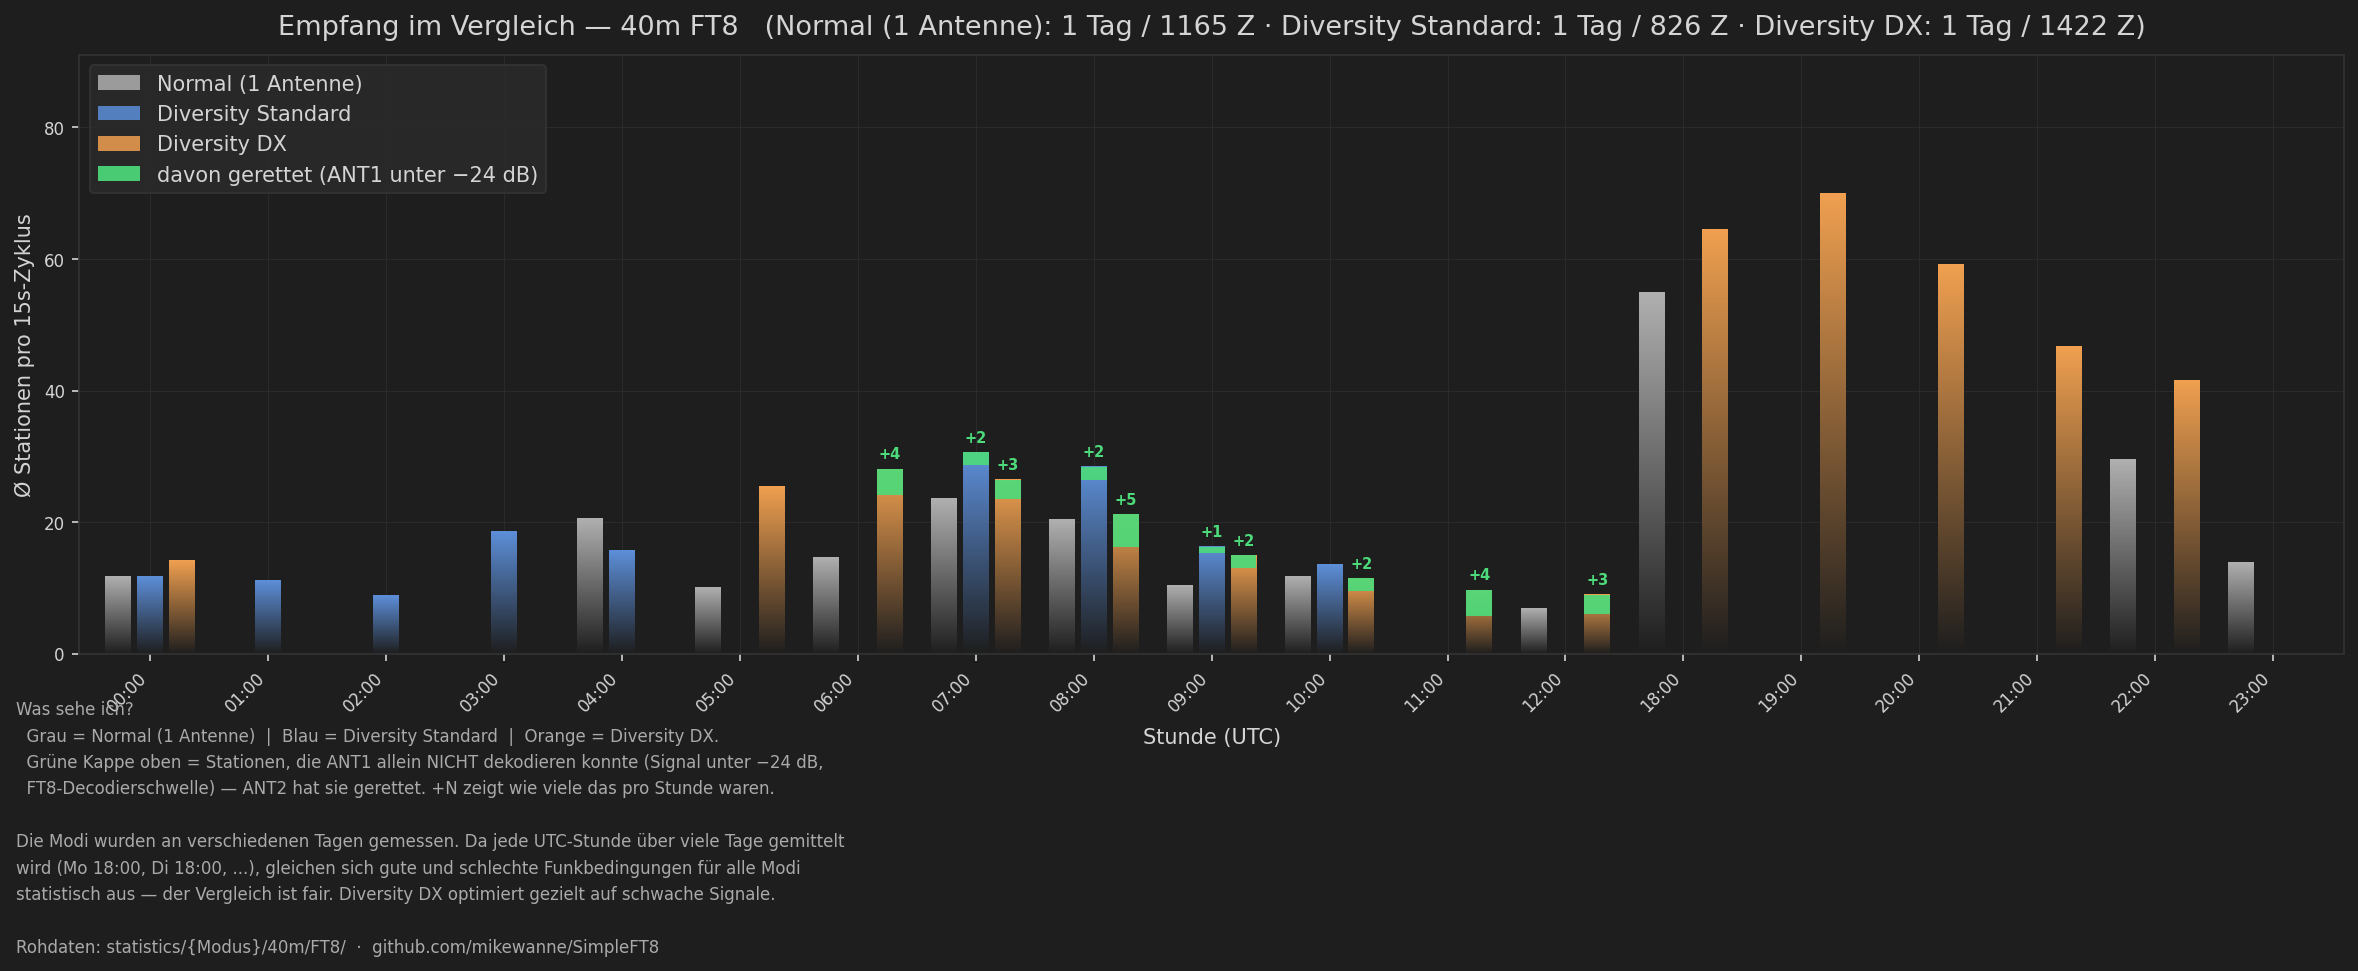
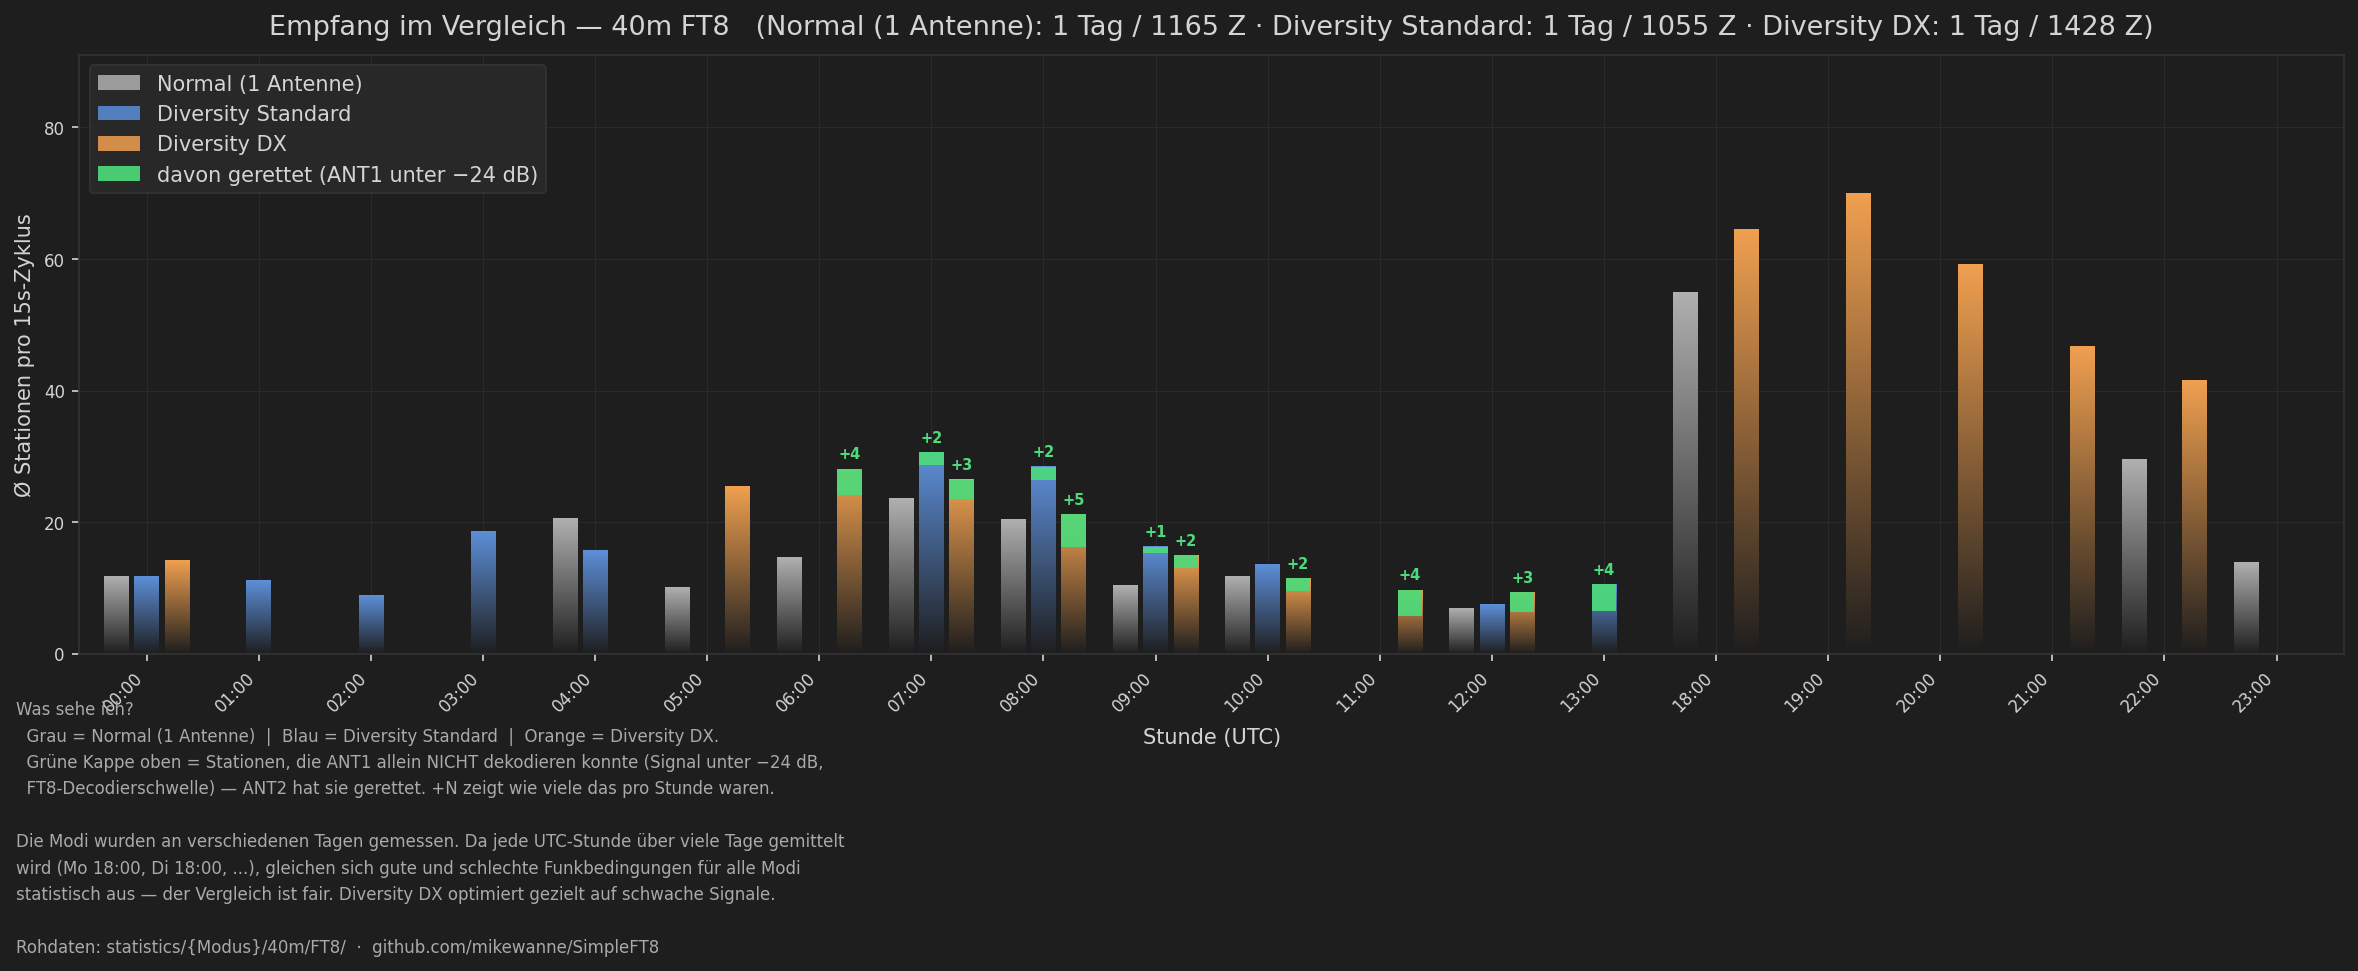
Diagramme + Statistik aktualisiert (2026-04-21 Nachmittag)
Diversity Standard: 1055 Z (+229), DX: 1428 Z (+6).
Neue Stunden 13 mit Rescue-Events sichtbar.

diff --git a/statistics/Diversity_Normal/40m/FT8/2026-04-21_13.md b/statistics/Diversity_Normal/40m/FT8/2026-04-21_13.md
@@ -1,0 +1,156 @@
+# Statistik 2026-04-21 13:00-13:59 UTC | FT8 | 40m | Diversity_Normal
+
+| Zeit | Stationen | Ø SNR | Ant2 Wins | Ø ΔSNR |
+|------|-----------|-------|-----------|--------|
+| 13:00:13 | 10 | -21 | 3 | +1.7 |
+| 13:00:28 | 10 | -21 | 2 | +2.0 |
+| 13:00:43 | 10 | -20 | 4 | +3.2 |
+| 13:00:58 | 10 | -20 | 4 | +3.2 |
+| 13:01:13 | 10 | -20 | 4 | +3.2 |
+| 13:01:28 | 9 | -19 | 4 | +2.6 |
+| 13:01:43 | 8 | -19 | 4 | +2.2 |
+| 13:02:13 | 8 | -19 | 4 | +2.2 |
+| 13:02:28 | 9 | -19 | 4 | +2.2 |
+| 13:02:43 | 9 | -20 | 4 | +2.2 |
+| 13:02:58 | 9 | -20 | 4 | +2.2 |
+| 13:03:13 | 10 | -19 | 4 | +2.2 |
+| 13:03:28 | 11 | -20 | 4 | +2.2 |
+| 13:03:43 | 10 | -20 | 5 | +2.0 |
+| 13:03:58 | 8 | -20 | 4 | +2.8 |
+| 13:04:13 | 9 | -19 | 4 | +2.8 |
+| 13:04:28 | 8 | -19 | 2 | +1.7 |
+| 13:04:43 | 8 | -19 | 2 | +1.7 |
+| 13:04:58 | 7 | -20 | 1 | +2.0 |
+| 13:05:13 | 9 | -20 | 1 | +2.0 |
+| 13:05:28 | 10 | -21 | 1 | +2.0 |
+| 13:05:43 | 9 | -21 | 1 | +0.7 |
+| 13:05:58 | 8 | -20 | 1 | -0.5 |
+| 13:06:13 | 8 | -20 | 1 | -0.5 |
+| 13:06:28 | 9 | -19 | 1 | -0.5 |
+| 13:06:43 | 9 | -19 | 1 | -0.6 |
+| 13:06:58 | 9 | -19 | 1 | -0.6 |
+| 13:07:13 | 9 | -19 | 1 | -0.6 |
+| 13:07:28 | 10 | -20 | 2 | -0.3 |
+| 13:07:43 | 11 | -20 | 2 | -0.3 |
+| 13:07:58 | 12 | -20 | 2 | -0.3 |
+| 13:08:13 | 13 | -20 | 3 | -0.3 |
+| 13:08:28 | 11 | -19 | 3 | -0.2 |
+| 13:08:43 | 12 | -20 | 3 | -0.4 |
+| 13:08:58 | 11 | -20 | 3 | +0.0 |
+| 13:09:13 | 10 | -20 | 3 | +0.0 |
+| 13:09:28 | 10 | -19 | 3 | +0.0 |
+| 13:09:43 | 10 | -19 | 3 | +0.0 |
+| 13:09:58 | 9 | -19 | 3 | +0.7 |
+| 13:10:13 | 8 | -19 | 2 | +0.0 |
+| 13:10:28 | 10 | -19 | 2 | +0.0 |
+| 13:10:43 | 9 | -20 | 2 | +0.5 |
+| 13:10:58 | 9 | -20 | 3 | +1.0 |
+| 13:11:13 | 8 | -20 | 3 | +1.8 |
+| 13:11:28 | 9 | -18 | 3 | +1.8 |
+| 13:11:43 | 10 | -18 | 3 | +1.8 |
+| 13:11:58 | 9 | -19 | 2 | -0.5 |
+| 13:12:13 | 9 | -18 | 3 | -0.4 |
+| 13:12:28 | 8 | -17 | 3 | +0.4 |
+| 13:12:43 | 8 | -18 | 3 | +0.4 |
+| 13:12:58 | 8 | -18 | 3 | +0.4 |
+| 13:13:13 | 8 | -19 | 3 | +1.8 |
+| 13:13:28 | 9 | -19 | 3 | +1.0 |
+| 13:13:43 | 8 | -20 | 2 | -0.7 |
+| 13:13:58 | 9 | -20 | 2 | -0.7 |
+| 13:14:13 | 9 | -19 | 2 | -0.7 |
+| 13:14:28 | 11 | -19 | 3 | -0.1 |
+| 13:14:43 | 10 | -20 | 3 | -0.1 |
+| 13:14:58 | 7 | -19 | 2 | +1.2 |
+| 13:15:13 | 6 | -20 | 2 | +1.8 |
+| 13:15:28 | 8 | -21 | 2 | +1.8 |
+| 13:15:43 | 10 | -20 | 2 | +1.8 |
+| 13:15:58 | 9 | -21 | 2 | +1.8 |
+| 13:16:13 | 9 | -21 | 4 | +1.3 |
+| 13:16:28 | 11 | -20 | 4 | +1.3 |
+| 13:20:13 | 9 | -20 | 3 | +0.5 |
+| 13:20:28 | 12 | -19 | 4 | +0.6 |
+| 13:20:43 | 13 | -19 | 4 | +0.6 |
+| 13:20:58 | 13 | -19 | 5 | -0.6 |
+| 13:21:13 | 13 | -19 | 5 | -0.6 |
+| 13:21:28 | 13 | -19 | 5 | -0.6 |
+| 13:21:43 | 13 | -19 | 5 | -0.6 |
+| 13:21:58 | 13 | -19 | 5 | -0.6 |
+| 13:22:13 | 14 | -18 | 5 | -0.6 |
+| 13:22:28 | 12 | -18 | 3 | -1.4 |
+| 13:22:43 | 12 | -18 | 3 | -0.5 |
+| 13:22:58 | 12 | -18 | 3 | -0.9 |
+| 13:23:13 | 11 | -18 | 3 | -0.7 |
+| 13:23:28 | 12 | -18 | 3 | -0.7 |
+| 13:23:43 | 9 | -18 | 2 | -0.6 |
+| 13:23:58 | 9 | -19 | 2 | -0.6 |
+| 13:24:13 | 11 | -20 | 2 | -0.6 |
+| 13:24:28 | 11 | -19 | 2 | -0.7 |
+| 13:24:43 | 11 | -18 | 2 | -1.8 |
+| 13:24:58 | 12 | -17 | 2 | -1.8 |
+| 13:25:13 | 10 | -17 | 1 | -2.3 |
+| 13:25:28 | 11 | -18 | 3 | -1.4 |
+| 13:25:43 | 11 | -18 | 3 | -1.4 |
+| 13:25:58 | 12 | -19 | 3 | -1.5 |
+| 13:26:13 | 13 | -20 | 3 | -1.5 |
+| 13:26:28 | 14 | -19 | 3 | -1.5 |
+| 13:26:43 | 14 | -19 | 3 | -1.5 |
+| 13:26:58 | 13 | -18 | 2 | -2.1 |
+| 13:27:13 | 14 | -18 | 2 | -2.1 |
+| 13:27:28 | 16 | -19 | 2 | -2.1 |
+| 13:27:43 | 13 | -19 | 3 | -1.4 |
+| 13:27:58 | 13 | -19 | 3 | -1.4 |
+| 13:28:13 | 13 | -19 | 3 | -1.4 |
+| 13:28:28 | 11 | -19 | 3 | -1.1 |
+| 13:28:43 | 9 | -19 | 3 | -0.7 |
+| 13:28:58 | 10 | -18 | 4 | -0.5 |
+| 13:29:13 | 10 | -19 | 4 | -0.5 |
+| 13:29:28 | 10 | -18 | 3 | -1.0 |
+| 13:29:43 | 10 | -19 | 3 | -1.0 |
+| 13:29:58 | 12 | -20 | 5 | -0.2 |
+| 13:30:13 | 13 | -19 | 5 | -0.2 |
+| 13:30:28 | 13 | -20 | 5 | -0.2 |
+| 13:30:43 | 10 | -19 | 6 | +0.4 |
+| 13:30:58 | 10 | -18 | 6 | +0.4 |
+| 13:31:13 | 11 | -18 | 6 | +0.4 |
+| 13:31:28 | 11 | -18 | 6 | +0.4 |
+| 13:31:43 | 12 | -17 | 6 | +0.4 |
+| 13:31:58 | 12 | -18 | 6 | +0.4 |
+| 13:32:13 | 12 | -18 | 8 | +0.4 |
+| 13:32:28 | 12 | -17 | 8 | +0.4 |
+| 13:32:43 | 12 | -18 | 8 | +0.4 |
+| 13:32:58 | 8 | -18 | 7 | +1.0 |
+| 13:33:13 | 10 | -18 | 7 | +1.0 |
+| 13:33:28 | 10 | -18 | 7 | +1.0 |
+| 13:33:43 | 10 | -19 | 6 | +0.6 |
+| 13:33:58 | 11 | -18 | 6 | +0.6 |
+| 13:34:13 | 11 | -19 | 7 | +0.9 |
+| 13:34:28 | 9 | -19 | 5 | +0.2 |
+| 13:34:43 | 10 | -18 | 5 | +0.2 |
+| 13:34:58 | 12 | -18 | 5 | +0.2 |
+| 13:35:13 | 13 | -19 | 6 | +0.3 |
+| 13:35:28 | 13 | -18 | 5 | -0.1 |
+| 13:35:43 | 13 | -19 | 5 | -0.1 |
+| 13:35:58 | 12 | -18 | 5 | -0.6 |
+| 13:36:13 | 12 | -18 | 5 | -0.2 |
+| 13:36:28 | 11 | -18 | 5 | +0.0 |
+| 13:36:43 | 13 | -19 | 6 | +0.2 |
+| 13:36:58 | 11 | -20 | 6 | +0.3 |
+| 13:37:13 | 11 | -20 | 6 | +0.3 |
+| 13:37:28 | 13 | -20 | 6 | +0.3 |
+| 13:37:43 | 13 | -19 | 4 | +0.1 |
+| 13:37:58 | 14 | -19 | 4 | +0.0 |
+| 13:38:13 | 12 | -18 | 4 | -0.1 |
+| 13:38:28 | 12 | -18 | 4 | +0.2 |
+| 13:42:13 | 10 | -19 | 4 | +0.9 |
+| 13:42:28 | 10 | -18 | 5 | +1.6 |
+| 13:42:43 | 10 | -18 | 5 | +1.6 |
+| 13:42:58 | 10 | -18 | 5 | +1.6 |
+| 13:43:13 | 11 | -18 | 5 | +1.6 |
+| 13:43:28 | 10 | -19 | 4 | +1.6 |
+| 13:43:43 | 9 | -20 | 3 | +0.7 |
+| 13:43:58 | 10 | -20 | 3 | +0.7 |
+| 13:44:13 | 11 | -20 | 3 | +0.6 |
+| 13:44:28 | 11 | -19 | 3 | +0.3 |
+| 13:44:43 | 11 | -19 | 2 | +0.2 |
+| 13:44:58 | 11 | -19 | 4 | +0.6 |
+| 13:45:13 | 13 | -17 | 4 | +0.0 |

diff --git a/statistics/Diversity_Normal/40m/FT8/2026-04-21_12.md b/statistics/Diversity_Normal/40m/FT8/2026-04-21_12.md
@@ -1,0 +1,81 @@
+# Statistik 2026-04-21 12:00-12:59 UTC | FT8 | 40m | Diversity_Normal
+
+| Zeit | Stationen | Ø SNR | Ant2 Wins | Ø ΔSNR |
+|------|-----------|-------|-----------|--------|
+| 12:36:28 | 13 | -18 | 3 | +0.9 |
+| 12:36:43 | 13 | -19 | 3 | +0.0 |
+| 12:36:58 | 11 | -19 | 3 | +0.1 |
+| 12:37:13 | 10 | -19 | 2 | +0.0 |
+| 12:37:28 | 13 | -19 | 2 | +0.0 |
+| 12:37:43 | 11 | -19 | 2 | +0.0 |
+| 12:37:58 | 11 | -19 | 2 | -0.1 |
+| 12:38:13 | 9 | -19 | 2 | -0.1 |
+| 12:38:28 | 11 | -19 | 2 | -0.1 |
+| 12:38:43 | 12 | -19 | 2 | -0.1 |
+| 12:38:58 | 11 | -19 | 2 | -0.9 |
+| 12:39:13 | 11 | -19 | 2 | -1.1 |
+| 12:39:28 | 10 | -19 | 2 | -1.1 |
+| 12:39:43 | 10 | -20 | 2 | -1.1 |
+| 12:39:58 | 9 | -20 | 2 | -1.1 |
+| 12:40:13 | 9 | -20 | 2 | -1.1 |
+| 12:40:28 | 11 | -20 | 3 | -0.9 |
+| 12:40:43 | 10 | -21 | 2 | -1.1 |
+| 12:41:13 | 10 | -20 | 2 | -1.1 |
+| 12:41:28 | 10 | -20 | 2 | -1.1 |
+| 12:41:43 | 9 | -20 | 2 | -1.2 |
+| 12:41:58 | 10 | -21 | 2 | -1.2 |
+| 12:42:13 | 9 | -21 | 2 | -1.0 |
+| 12:42:28 | 9 | -21 | 2 | -1.1 |
+| 12:42:43 | 9 | -21 | 2 | -1.1 |
+| 12:42:58 | 9 | -21 | 2 | -1.1 |
+| 12:43:13 | 10 | -21 | 2 | -1.1 |
+| 12:43:28 | 10 | -22 | 2 | -1.1 |
+| 12:43:43 | 9 | -22 | 2 | -1.3 |
+| 12:43:58 | 9 | -22 | 2 | -1.3 |
+| 12:44:13 | 9 | -22 | 2 | -1.3 |
+| 12:44:28 | 9 | -21 | 2 | -1.3 |
+| 12:44:43 | 7 | -19 | 2 | -1.2 |
+| 12:44:58 | 7 | -19 | 2 | -1.2 |
+| 12:45:13 | 5 | -19 | 2 | -0.5 |
+| 12:45:43 | 5 | -19 | 2 | -0.5 |
+| 12:45:58 | 6 | -19 | 2 | -0.5 |
+| 12:46:28 | 6 | -19 | 1 | -0.7 |
+| 12:46:43 | 5 | -21 | 1 | -1.0 |
+| 12:46:58 | 5 | -21 | 2 | -0.7 |
+| 12:47:13 | 7 | -21 | 2 | -0.7 |
+| 12:47:28 | 5 | -19 | 2 | -0.7 |
+| 12:47:43 | 5 | -20 | 2 | -1.5 |
+| 12:47:58 | 6 | -20 | 2 | -1.5 |
+| 12:48:13 | 7 | -19 | 2 | -1.5 |
+| 12:48:28 | 9 | -20 | 2 | -1.5 |
+| 12:48:43 | 8 | -20 | 2 | -1.5 |
+| 12:48:58 | 7 | -20 | 1 | -2.0 |
+| 12:49:13 | 9 | -21 | 1 | -2.0 |
+| 12:49:28 | 9 | -21 | 1 | -2.0 |
+| 12:49:43 | 5 | -21 | 1 | -1.3 |
+| 12:49:58 | 5 | -21 | 1 | -1.3 |
+| 12:50:13 | 6 | -21 | 1 | -1.3 |
+| 12:50:28 | 5 | -21 | 1 | -1.3 |
+| 12:50:43 | 4 | -21 | 1 | -1.3 |
+| 12:51:13 | 5 | -20 | 1 | -1.3 |
+| 12:51:28 | 6 | -21 | 1 | -1.3 |
+| 12:51:43 | 4 | -23 | 1 | -1.3 |
+| 12:51:58 | 3 | -21 | 0 | -3.7 |
+| 12:52:13 | 3 | -21 | 0 | -3.7 |
+| 12:52:28 | 4 | -20 | 0 | -3.7 |
+| 12:52:43 | 4 | -21 | 0 | -3.7 |
+| 12:52:58 | 4 | -22 | 1 | -2.7 |
+| 12:53:13 | 4 | -20 | 1 | -2.7 |
+| 12:53:28 | 4 | -20 | 1 | -2.7 |
+| 12:53:43 | 4 | -19 | 1 | -2.7 |
+| 12:53:58 | 4 | -19 | 1 | -2.7 |
+| 12:54:13 | 4 | -19 | 1 | -2.7 |
+| 12:54:28 | 5 | -20 | 1 | -2.7 |
+| 12:58:13 | 4 | -22 | 1 | +0.5 |
+| 12:58:28 | 4 | -19 | 2 | +0.7 |
+| 12:58:43 | 4 | -20 | 2 | +0.7 |
+| 12:58:58 | 4 | -21 | 2 | +0.7 |
+| 12:59:13 | 7 | -20 | 2 | +0.7 |
+| 12:59:28 | 8 | -20 | 2 | +0.7 |
+| 12:59:43 | 9 | -20 | 2 | +0.7 |
+| 12:59:58 | 8 | -19 | 2 | +2.5 |

diff --git a/statistics/Normal/40m/FT8/2026-04-21_12.md b/statistics/Normal/40m/FT8/2026-04-21_12.md
@@ -1,0 +1,37 @@
+# Statistik 2026-04-21 12:00-12:59 UTC | FT8 | 40m | Normal
+
+| Zeit | Stationen | Ø SNR |
+|------|-----------|-------|
+| 12:21:43 | 9 | -20 |
+| 12:21:58 | 9 | -20 |
+| 12:22:13 | 7 | -20 |
+| 12:22:28 | 7 | -20 |
+| 12:22:43 | 6 | -20 |
+| 12:22:58 | 6 | -20 |
+| 12:23:13 | 3 | -21 |
+| 12:23:28 | 3 | -21 |
+| 12:23:43 | 3 | -21 |
+| 12:23:58 | 5 | -20 |
+| 12:24:13 | 5 | -20 |
+| 12:24:28 | 5 | -20 |
+| 12:24:43 | 5 | -20 |
+| 12:24:58 | 6 | -20 |
+| 12:25:13 | 6 | -20 |
+| 12:25:28 | 7 | -19 |
+| 12:25:43 | 7 | -19 |
+| 12:25:58 | 6 | -20 |
+| 12:26:13 | 6 | -20 |
+| 12:26:28 | 7 | -21 |
+| 12:26:43 | 6 | -21 |
+| 12:26:58 | 7 | -21 |
+| 12:27:13 | 8 | -22 |
+| 12:27:28 | 8 | -22 |
+| 12:27:43 | 7 | -22 |
+| 12:27:58 | 6 | -22 |
+| 12:28:13 | 8 | -21 |
+| 12:28:28 | 9 | -22 |
+| 12:28:43 | 10 | -21 |
+| 12:28:58 | 10 | -20 |
+| 12:29:13 | 10 | -20 |
+| 12:29:28 | 10 | -20 |
+| 12:29:43 | 10 | -20 |

diff --git a/statistics/Diversity_Dx/40m/FT8/2026-04-21_12.md b/statistics/Diversity_Dx/40m/FT8/2026-04-21_12.md
@@ -70,3 +70,9 @@
 | 12:16:43 | 9 | -20 | 1 | -1.2 |
 | 12:16:58 | 9 | -20 | 1 | -1.0 |
 | 12:17:13 | 8 | -20 | 1 | -1.0 |
+| 12:33:28 | 13 | -19 | 3 | -0.9 |
+| 12:33:43 | 13 | -18 | 3 | -0.9 |
+| 12:33:58 | 14 | -19 | 3 | -0.9 |
+| 12:34:13 | 14 | -19 | 3 | -0.9 |
+| 12:34:28 | 14 | -20 | 3 | -0.9 |
+| 12:34:43 | 14 | -20 | 3 | -1.0 |

diff --git a/statistics/Diversity_Normal/40m/FT8/stations/2026-04-21_13.md b/statistics/Diversity_Normal/40m/FT8/stations/2026-04-21_13.md
@@ -1,0 +1,8 @@
+# Station-Vergleiche 2026-04-21 | Diversity_Normal | 40m | FT8
+
+| Zeit | Call | ANT1 dB | ANT2 dB | Δ dB |
+|------|------|---------|---------|------|
+| 13:00:43 | I2SIP | -25 | -19 | +6.0 |
+| 13:00:43 | F5LPL | -25 | -22 | +3.0 |
+| 13:36:13 | M7TYH | -24 | -20 | +4.0 |
+| 13:42:28 | I2AMH | -24 | -17 | +7.0 |
